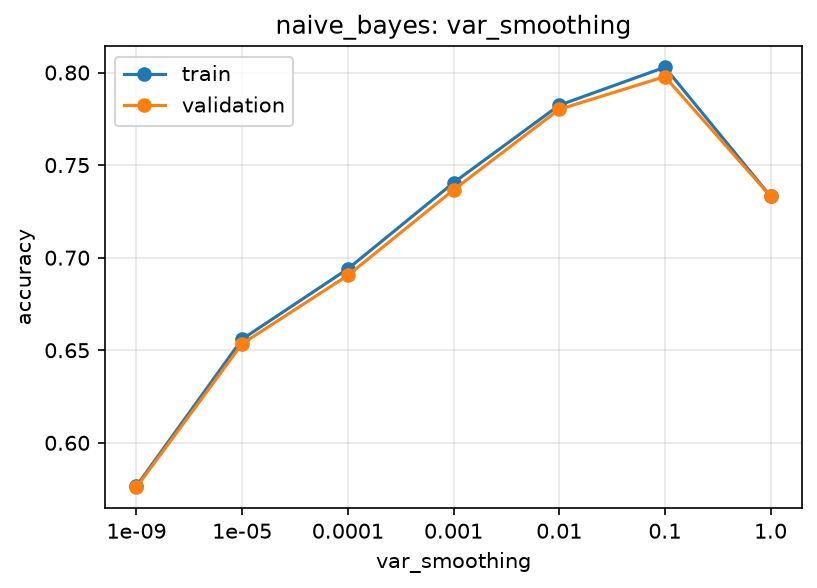
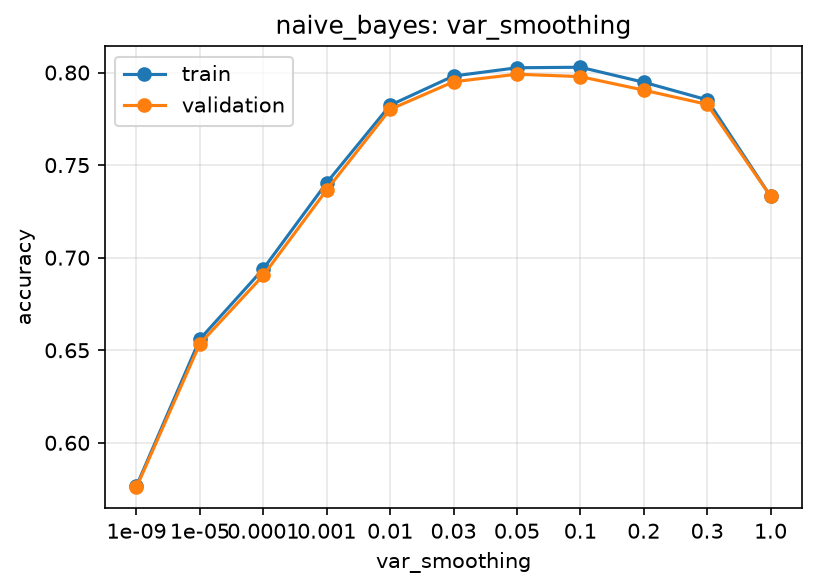
exp: refine Gaussian var_smoothing grid around 0.1

diff --git a/experiments/hyperparams/naive_bayes.py b/experiments/hyperparams/naive_bayes.py
@@ -12,7 +12,7 @@ from src.utils import Timer
 
 from .common import sweep
 
-VAR_SMOOTHINGS = [1e-9, 1e-5, 1e-4, 1e-3, 1e-2, 1e-1, 1.0]
+VAR_SMOOTHINGS = [1e-9, 1e-5, 1e-4, 1e-3, 1e-2, 0.03, 0.05, 0.1, 0.2, 0.3, 1.0]
 
 
 def main():
